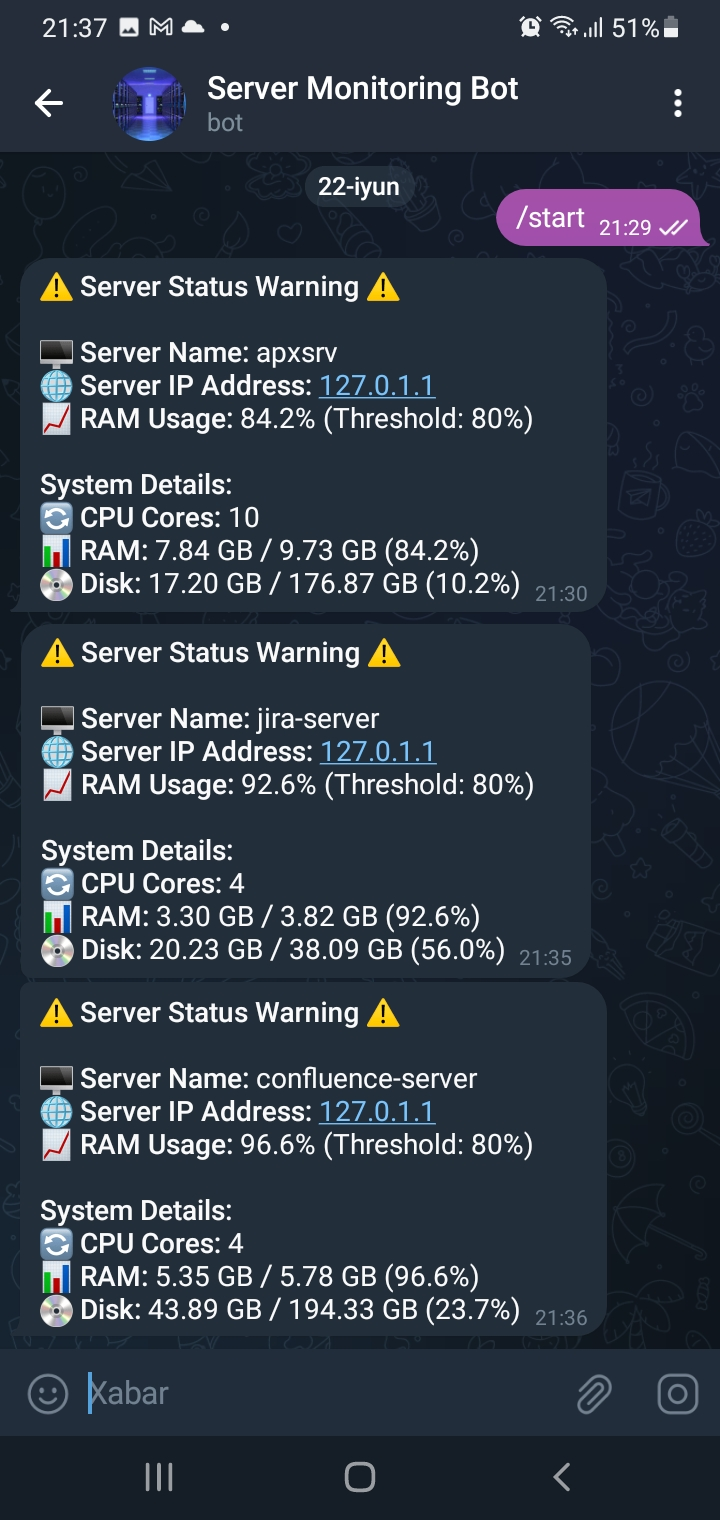
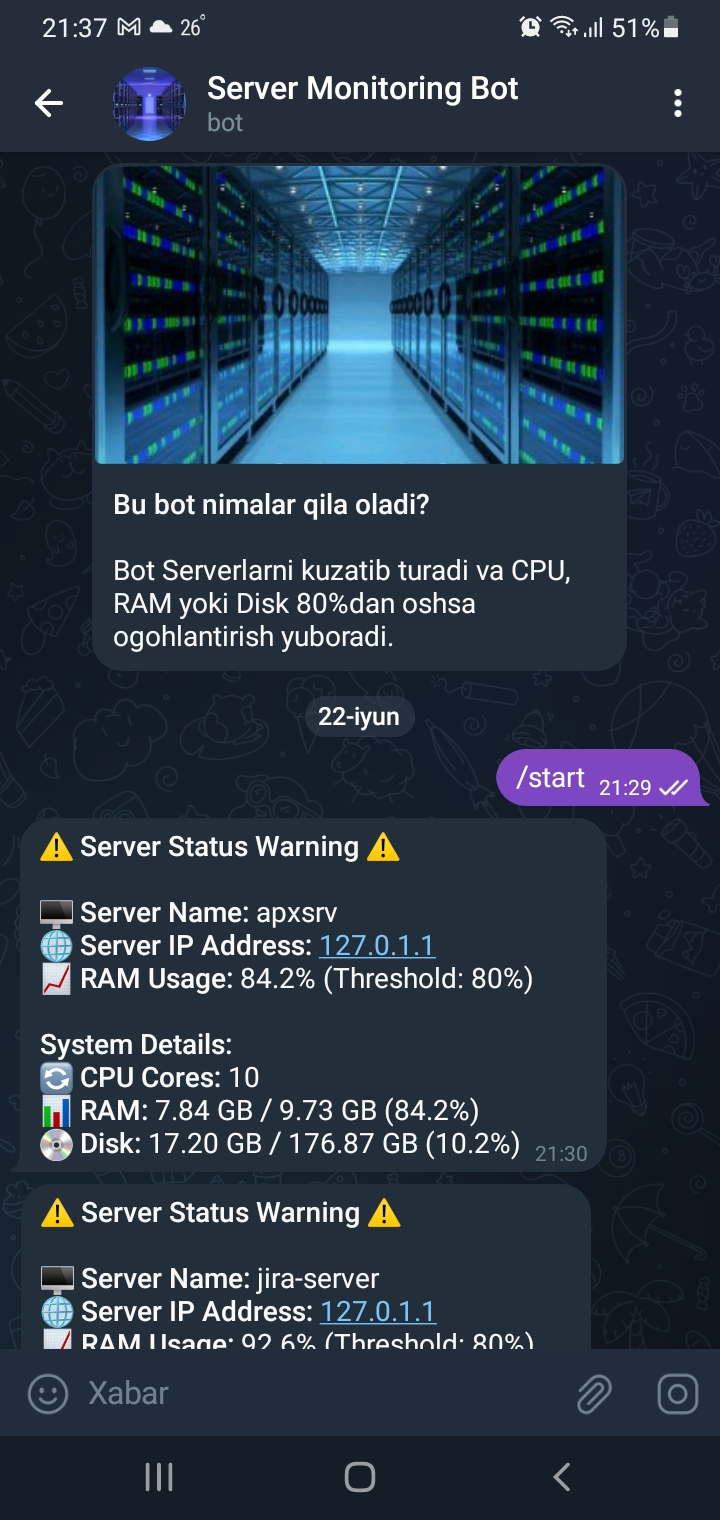
added images

Changed region(s): [[0.0306, 0.0928, 0.9778, 0.9276], [0.1528, 0.0, 0.275, 0.0309]]

diff --git a/server-monitoring-bot/README.md b/server-monitoring-bot/README.md
@@ -1,6 +1,6 @@
 # Server Monitoring Bot
 
-Telegram bot developed for server monitoring. Bit supports monitoring of multiple servers. The bot will send a warning message if CPU, RAM and Memory exceed 80%.
+Telegram bot developed for server monitoring. Bot supports monitoring of multiple servers. The bot will send a warning message if CPU, RAM and Memory exceed 80%.
 
 #### Running the program on your servers
 
@@ -19,3 +19,5 @@ pyton3 info-bot.py
 
 ### Screenshoots
 
+![alt text](https://github.com/ismoilovdevml/devops-tools/blob/master/server-monitoring-bot/1.jpg)
+![alt text](https://github.com/ismoilovdevml/devops-tools/blob/master/server-monitoring-bot/2.jpg)
